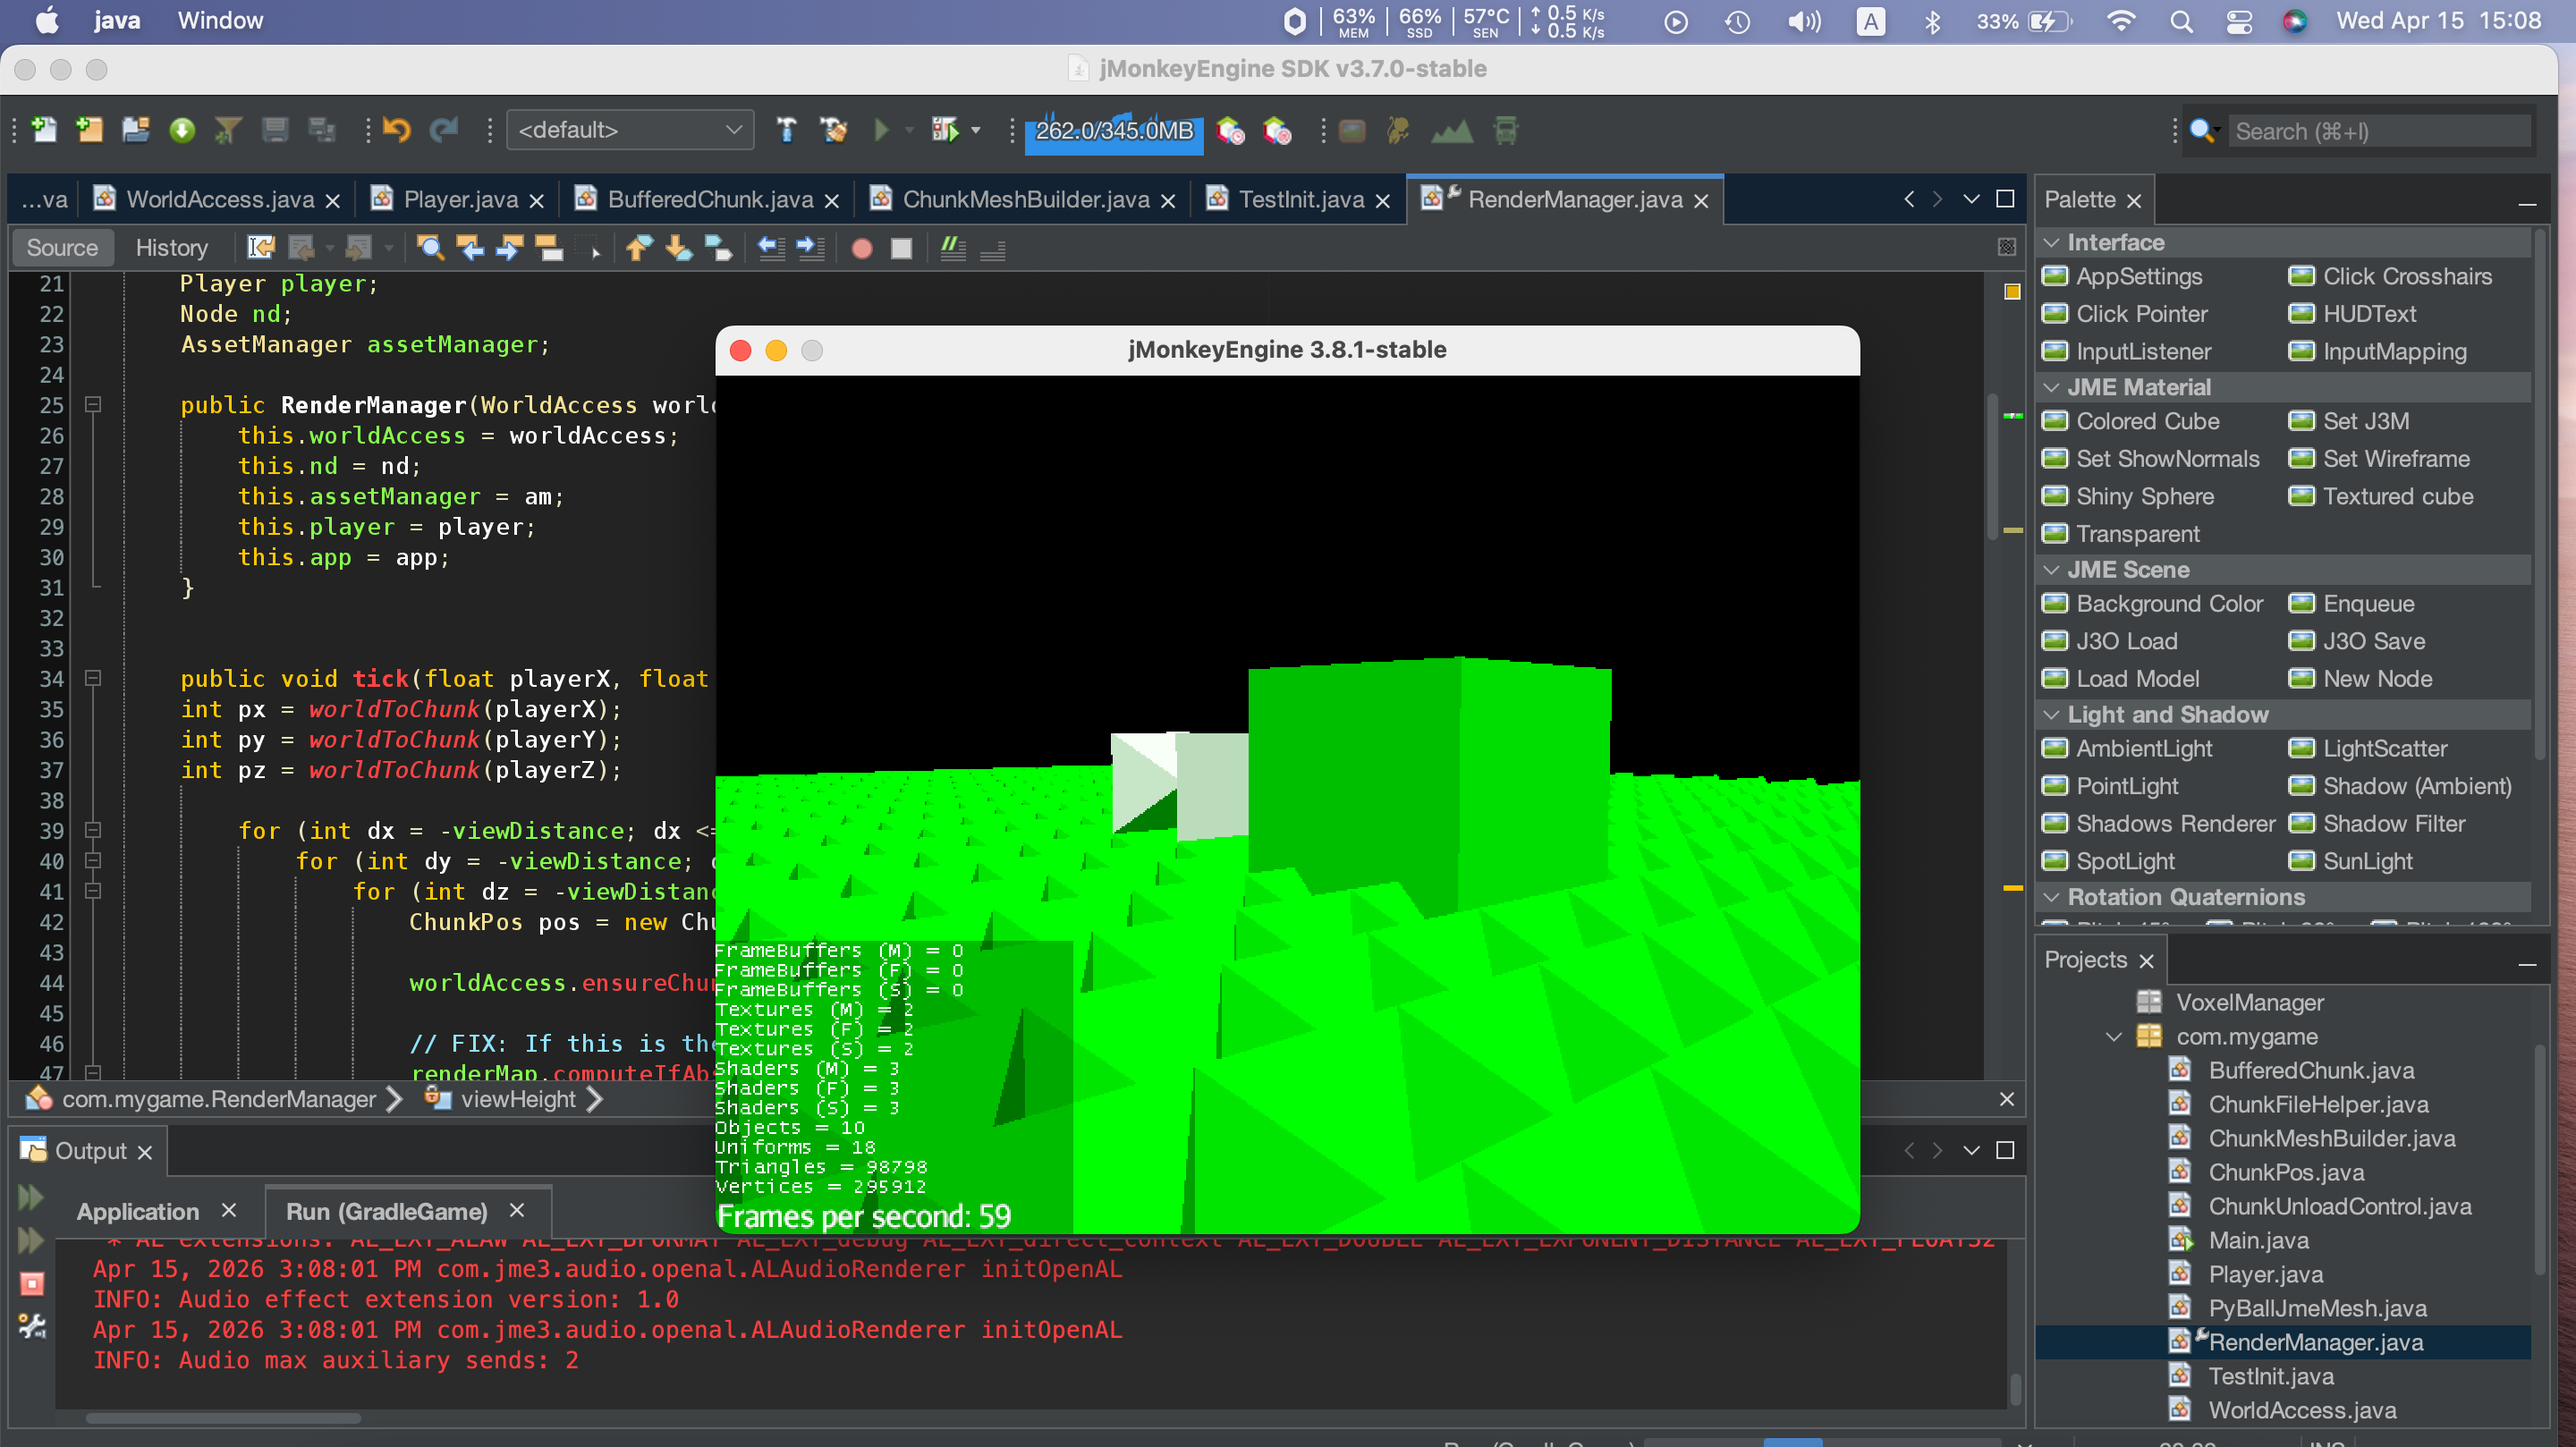
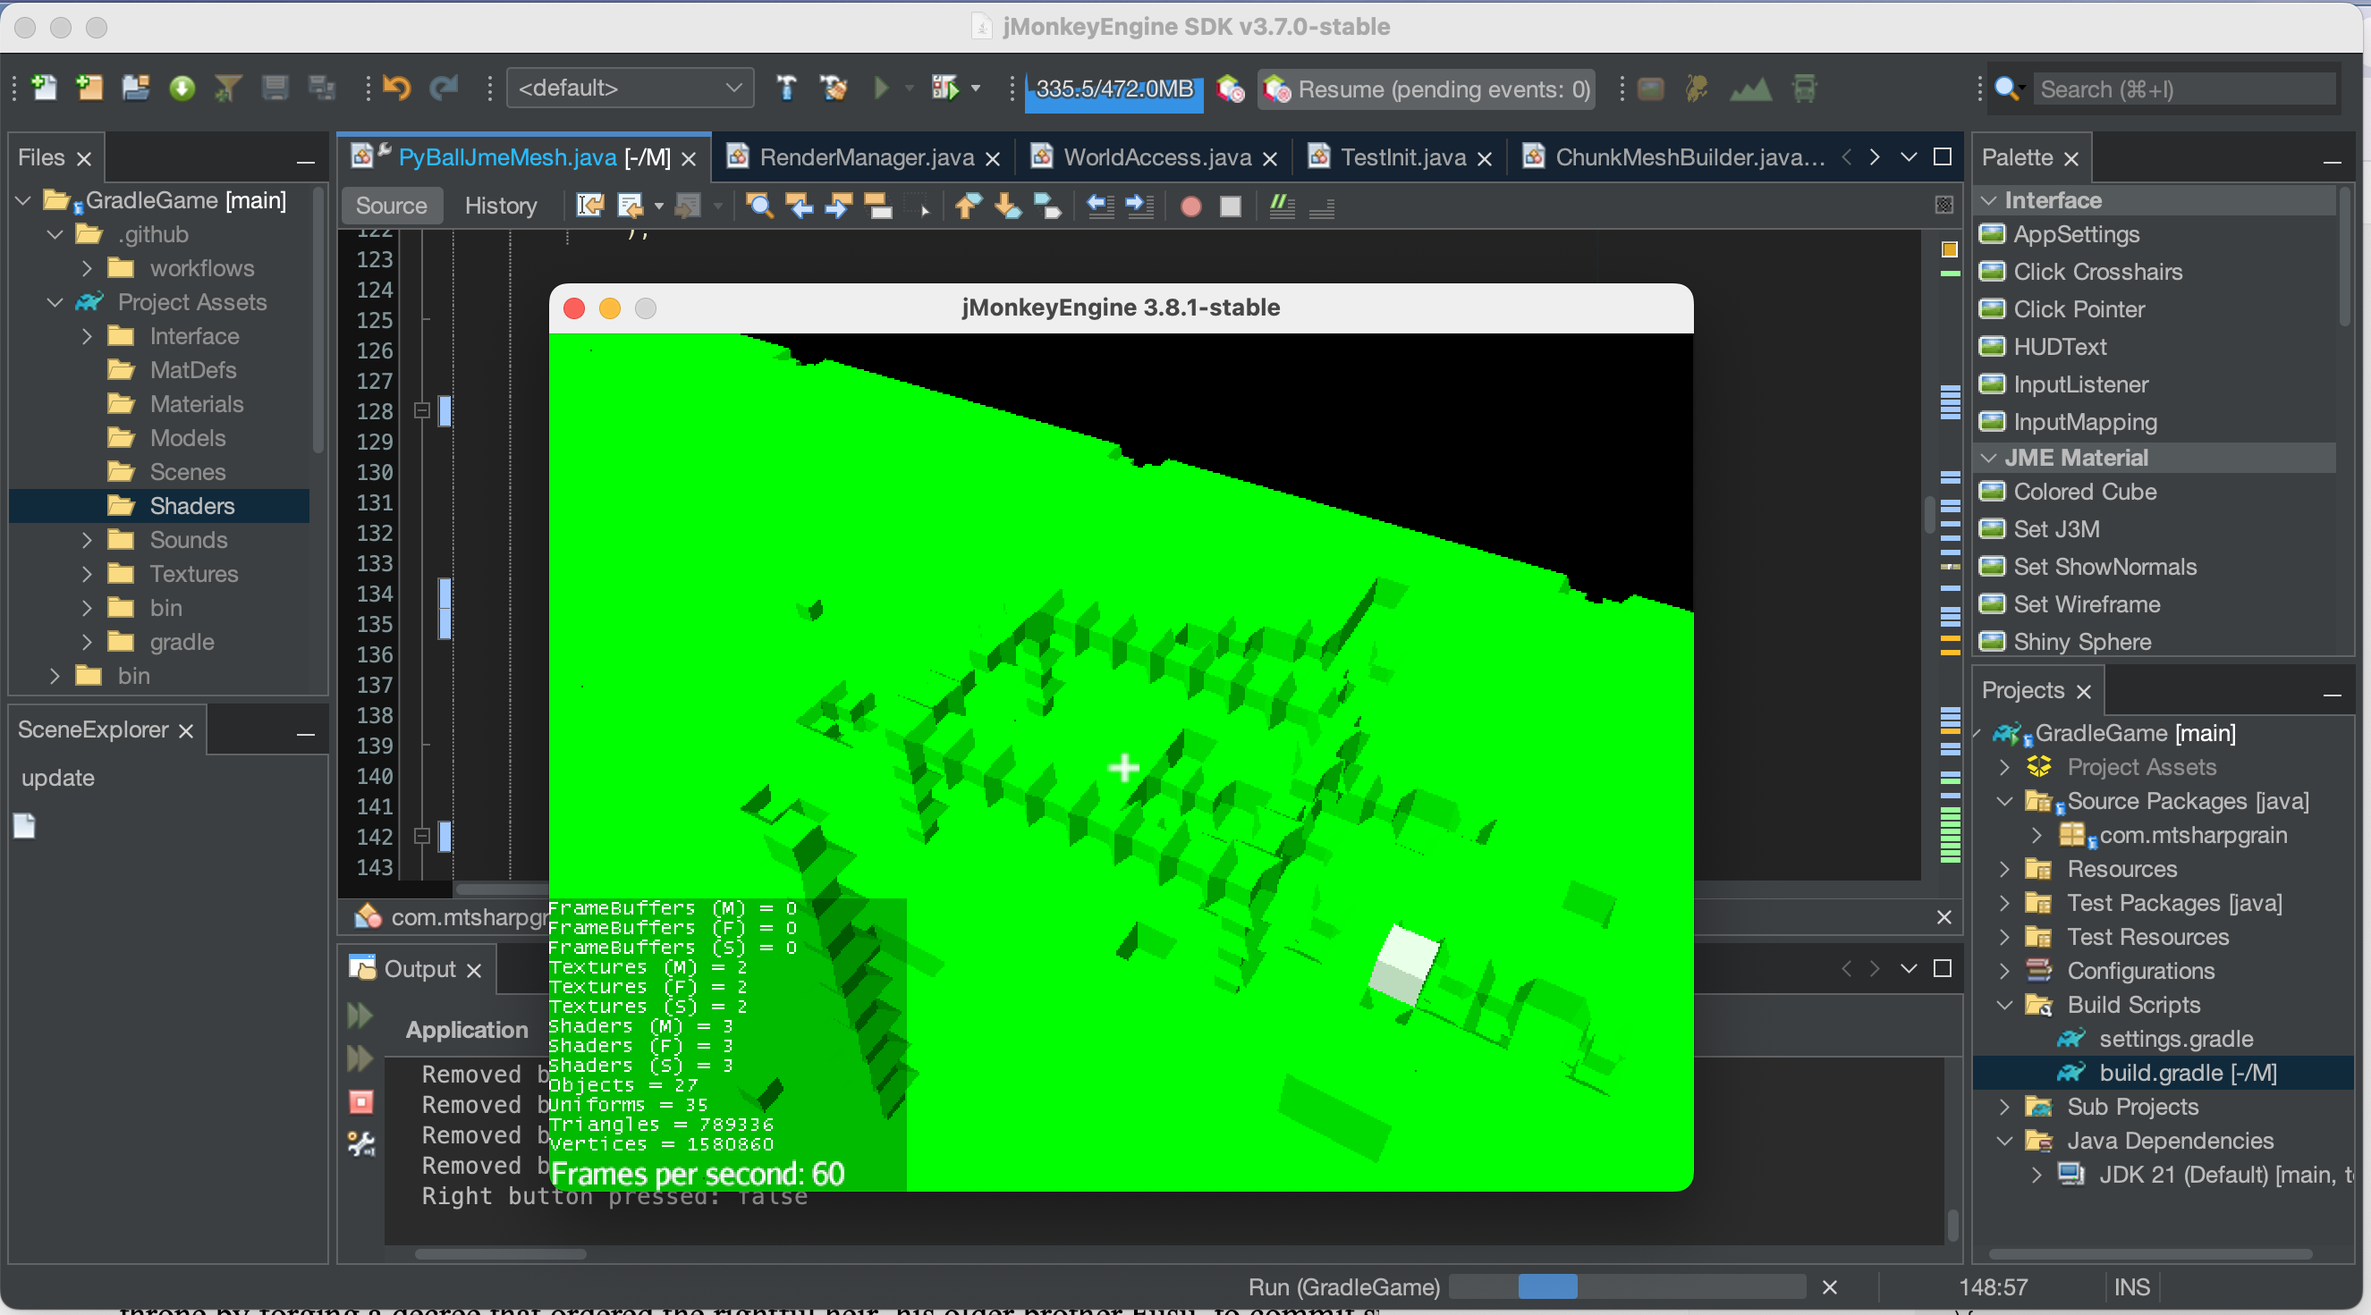
Reworking
Fixing

diff --git a/src/main/java/com/mtsharpgrain/PyBallJmeMesh.java b/src/main/java/com/mtsharpgrain/PyBallJmeMesh.java
@@ -1,5 +1,7 @@
 package com.mtsharpgrain;
 
+import com.jme3.scene.Geometry;
+import jme3tools.optimize.GeometryBatchFactory;
 import com.jme3.math.Vector3f;
 import com.jme3.scene.Mesh;
 import com.jme3.scene.VertexBuffer;
@@ -54,7 +56,22 @@ public class PyBallJmeMesh {
             if (nx) index |= (1 << 3);
             if (ny) index |= (1 << 4);
             if (nz) index |= (1 << 5);
-            return meshArray[index];
+            Mesh baseMesh = meshArray[index];
+
+            // Small cube in center
+            Mesh cubeMesh = new Box(0.25f, 0.25f, 0.25f);
+
+            Geometry g1 = new Geometry("base", baseMesh);
+            Geometry g2 = new Geometry("cube", cubeMesh);
+
+            Mesh merged = new Mesh();
+            GeometryBatchFactory.mergeGeometries(
+                List.of(g1, g2),
+                merged
+            );
+
+            return merged;
+
         } else {return new Box(0.5f,0.5f,0.5f); 
         }
 
@@ -83,10 +100,11 @@ public class PyBallJmeMesh {
         if (faces[3]) {
             addPyramidNoBase(
                     verts, norms, indices,
-                    new Vector3f(0.5f,0.5f,0.5f),
-                    new Vector3f(0.5f,0.5f,-0.5f),
-                    new Vector3f(0.5f,-0.5f,-0.5f),
-                    new Vector3f(0.5f,-0.5f,0.5f)
+                    new Vector3f(-0.5f,0.5f,0.5f),
+                    new Vector3f(-0.5f,0.5f,-0.5f),
+                    new Vector3f(-0.5f,-0.5f,-0.5f),
+                    new Vector3f(-0.5f,-0.5f,0.5f),
+                    true
             );
 
             
@@ -96,36 +114,38 @@ public class PyBallJmeMesh {
         if (faces[0]) {
             addPyramidNoBase(
                     verts, norms, indices,
-                    new Vector3f(-0.5f,0.5f,-0.5f),
-                    new Vector3f(-0.5f,0.5f,0.5f),
-                    new Vector3f(-0.5f,-0.5f,0.5f),
-                    new Vector3f(-0.5f,-0.5f,-0.5f)
+                    new Vector3f(0.5f,0.5f,-0.5f),
+                    new Vector3f(0.5f,0.5f,0.5f),
+                    new Vector3f(0.5f,-0.5f,0.5f),
+                    new Vector3f(0.5f,-0.5f,-0.5f),
+                    true
             );
 
             
         }
 
         // ny
-        if (faces[4]) {
+        if (faces[1]) {
             addPyramidNoBase(
                     verts, norms, indices,
                     new Vector3f(-0.5f,0.5f,0.5f),
                     new Vector3f(0.5f,0.5f,0.5f),
                     new Vector3f(0.5f,0.5f,-0.5f),
-                    new Vector3f(-0.5f,0.5f,-0.5f)
+                    new Vector3f(-0.5f,0.5f,-0.5f
+                    ),true
             );
 
             
         }
 
         // py
-        if (faces[1]) {
+        if (faces[4]) {
             addPyramidNoBase(
                     verts, norms, indices,
                     new Vector3f(-0.5f,-0.5f,-0.5f),
                     new Vector3f(0.5f,-0.5f,-0.5f),
                     new Vector3f(0.5f,-0.5f,0.5f),
-                    new Vector3f(-0.5f,-0.5f,0.5f)
+                    new Vector3f(-0.5f,-0.5f,0.5f), true
             );
 
             
@@ -135,10 +155,10 @@ public class PyBallJmeMesh {
         if (faces[5]) {
             addPyramidNoBase(
                     verts, norms, indices,
-                    new Vector3f(-0.5f,0.5f,0.5f),
-                    new Vector3f(-0.5f,-0.5f,0.5f),
-                    new Vector3f(0.5f,-0.5f,0.5f),
-                    new Vector3f(0.5f,0.5f,0.5f)
+                    new Vector3f(-0.5f,0.5f,-0.5f),
+                    new Vector3f(-0.5f,-0.5f,-0.5f),
+                    new Vector3f(0.5f,-0.5f,-0.5f),
+                    new Vector3f(0.5f,0.5f,-0.5f),false
             );
 
             
@@ -148,19 +168,13 @@ public class PyBallJmeMesh {
         if (faces[2]) {
             addPyramidNoBase(
                     verts, norms, indices,
-                    new Vector3f(0.5f,0.5f,-0.5f),
-                    new Vector3f(0.5f,-0.5f,-0.5f),
-                    new Vector3f(-0.5f,-0.5f,-0.5f),
-                    new Vector3f(-0.5f,0.5f,-0.5f)
+                    new Vector3f(0.5f,0.5f,0.5f),
+                    new Vector3f(0.5f,-0.5f,0.5f),
+                    new Vector3f(-0.5f,-0.5f,0.5f),
+                    new Vector3f(-0.5f,0.5f,0.5f),false
             );
 
-            addQuad(
-                    verts, norms, indices,
-                    new Vector3f(0.5f,0.5f,-0.5f),
-                    new Vector3f(-0.5f,0.5f,-0.5f),
-                    new Vector3f(-0.5f,-0.5f,-0.5f),
-                    new Vector3f(0.5f,-0.5f,-0.5f)
-            );
+            
         }
 
         Mesh mesh = new Mesh();
@@ -201,15 +215,16 @@ public class PyBallJmeMesh {
             Vector3f b1,
             Vector3f b2,
             Vector3f b3,
-            Vector3f b4
+            Vector3f b4,
+            boolean x
     ) {
 
         Vector3f tip = new Vector3f(0, 0, 0);
 
-        addFace(verts, norms, indices, tip, b1, b2);
-        addFace(verts, norms, indices, tip, b2, b3);
-        addFace(verts, norms, indices, tip, b3, b4);
-        addFace(verts, norms, indices, tip, b4, b1);
+        addFace(verts, norms, indices, tip, b1, b2, x);
+        addFace(verts, norms, indices, tip, b2, b3, x);
+        addFace(verts, norms, indices, tip, b3, b4, x);
+        addFace(verts, norms, indices, tip, b4, b1, x);
     }
 
     private static void addQuad(
@@ -219,11 +234,11 @@ public class PyBallJmeMesh {
             Vector3f v1,
             Vector3f v2,
             Vector3f v3,
-            Vector3f v4
+            Vector3f v4, boolean x
     ) {
 
-        addFace(verts, norms, indices, v1, v2, v3);
-        addFace(verts, norms, indices, v1, v3, v4);
+        addFace(verts, norms, indices, v1, v2, v3,x);
+        addFace(verts, norms, indices, v1, v3, v4,x);
     }
 
     private static void addFace(
@@ -232,16 +247,19 @@ public class PyBallJmeMesh {
             List<Integer> indices,
             Vector3f v1,
             Vector3f v2,
-            Vector3f v3
+            Vector3f v3,
+            boolean normalX
     ) {
 
         int offset = verts.size();
 
+        
+        if(normalX) {
         Vector3f normal =
                 v2.subtract(v1)
                         .crossLocal(v3.subtract(v1))
-                        .normalizeLocal();
-
+                        .normalizeLocal()
+                        .negateLocal();
         verts.add(v1);
         verts.add(v2);
         verts.add(v3);
@@ -249,9 +267,28 @@ public class PyBallJmeMesh {
         norms.add(normal);
         norms.add(normal);
         norms.add(normal);
+        indices.add(offset + 2);
+        indices.add(offset + 1);
+        indices.add(offset);
+        } else {
+        
+        Vector3f normal =
+                v2.subtract(v1)
+                        .crossLocal(v3.subtract(v1))
+                        .normalizeLocal();
+                        //.negateLocal();
+        verts.add(v1);
+        verts.add(v2);
+        verts.add(v3);
 
+        norms.add(normal);
+        norms.add(normal);
+        norms.add(normal);
         indices.add(offset);
         indices.add(offset + 1);
         indices.add(offset + 2);
+        
+        }
+        
     }
 }

diff --git a/src/main/java/com/mtsharpgrain/Main.java b/src/main/java/com/mtsharpgrain/Main.java
@@ -1,12 +1,13 @@
 package com.mtsharpgrain;
 
+
 import com.jme3.app.SimpleApplication;
 import com.jme3.math.Vector3f;
 import com.jme3.renderer.RenderManager;
 import com.jme3.input.RawInputListener;
 import com.jme3.font.BitmapFont;
 import com.jme3.font.BitmapText;
-
+import com.jvisualscripting.Engine;
 
 public class Main extends SimpleApplication {
     private com.mtsharpgrain.RenderManager renderManagermg;
